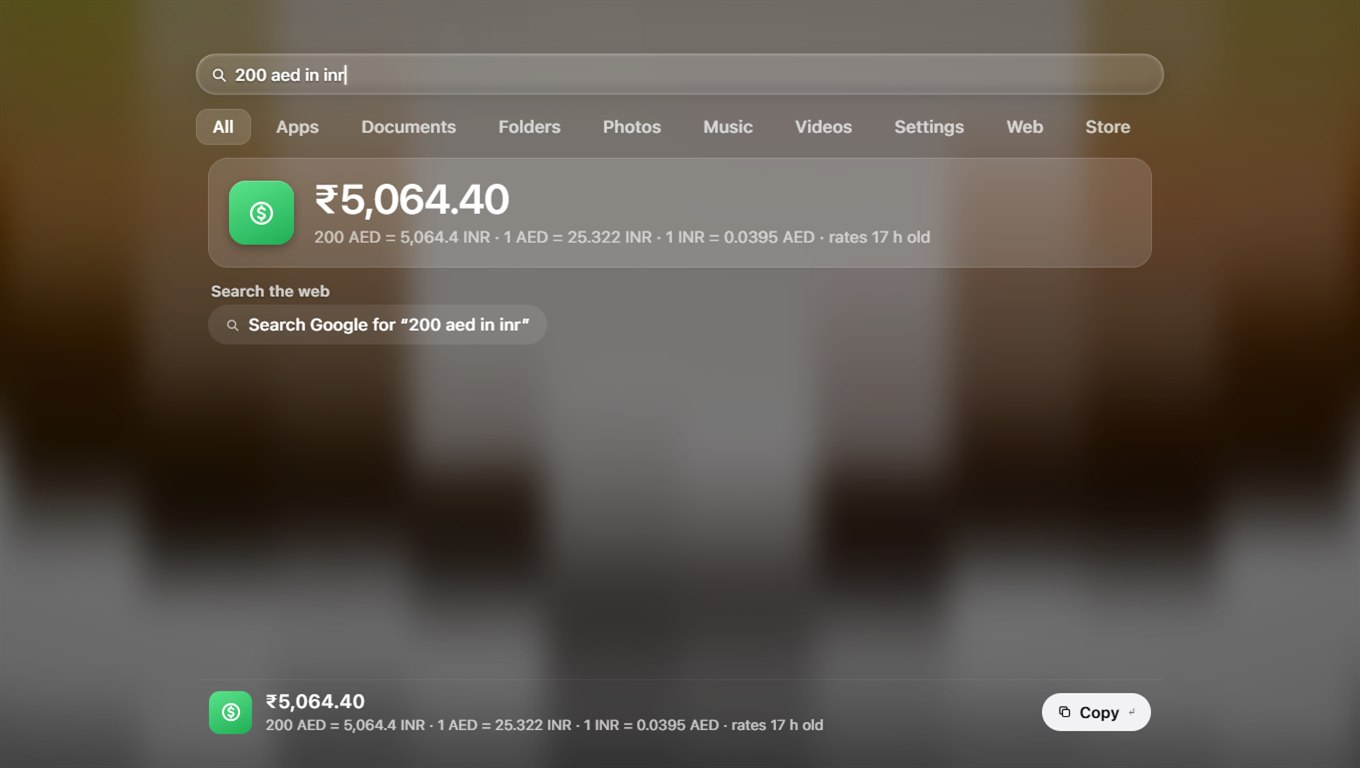
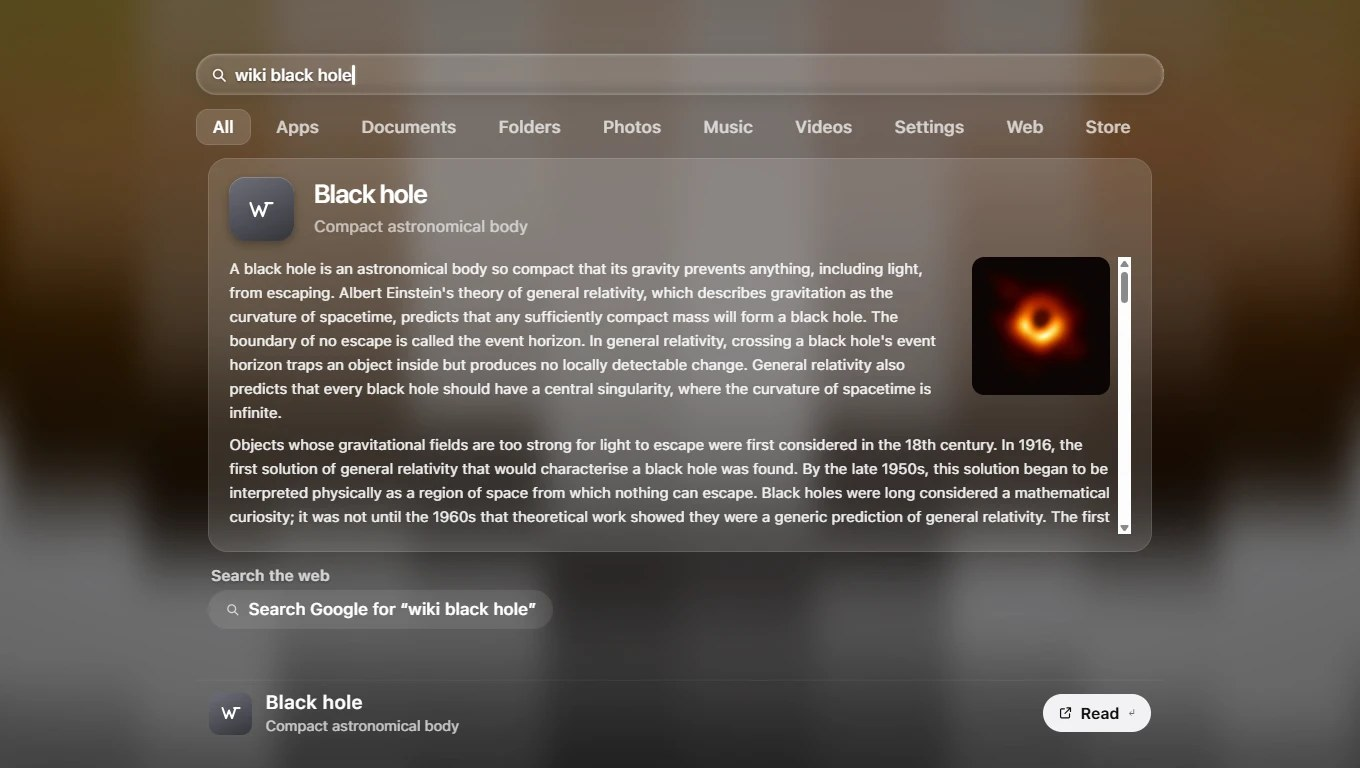
README: new song, video and search screenshots; Launchpad self-heals
- Screenshots: Blinding Lights with its lyrics, the Die With A Smile video,
  and a Wikipedia answer.
- Launchpad's connection to the helper (swipes, the Windows key) is dropped
  and reopened when it hangs, and Launchpad's open state is re-sent every
  2 s, so a stuck connection recovers without restarting the helper.

diff --git a/wallpaper/launchpad.js b/wallpaper/launchpad.js
@@ -1227,14 +1227,20 @@
     if (!IN_LIVELY || window.OVERLAY) return;                        // the overlay gets its keys directly (it's a normal focused window)
     let since = -1;
     for (;;) {
+      // the helper answers within 20 s; a request that hangs longer is dropped and made again (swipes and the Windows key
+      // travel over this one connection: once it stuck, nothing reached Launchpad until the helper was restarted)
+      const ac = new AbortController(), killer = setTimeout(() => ac.abort(), 30000);
       try {
-        const j = await (await fetch(`${evBase}/wait?${q2s({ since })}`, { cache: 'no-store' })).json();
+        const j = await (await fetch(`${evBase}/wait?${q2s({ since })}`, { cache: 'no-store', signal: ac.signal })).json();
+        clearTimeout(killer);
         helperLive = true;
         if (since >= 0) (j.evs || []).forEach(ev => { try { onHelperEvent(ev); } catch (_) {} });
         since = j.seq ?? since;
-      } catch (_) { helperLive = false; since = -1; await new Promise(r => setTimeout(r, 2000)); }
+      } catch (e) { clearTimeout(killer); if (e && e.name === 'AbortError') { since = -1; continue; } helperLive = false; since = -1; await new Promise(r => setTimeout(r, 2000)); }
     }
   })();
+  // and the helper is reminded every 2 s whether Launchpad is really open, so the two can never disagree for long
+  if (IN_LIVELY && !window.OVERLAY) setInterval(() => fastState(open ? 1 : 0), 2000);
 
   // the power menu closes on any press that isn't on it or its button (before anything else gets the press)
   document.addEventListener('pointerdown', e => { if (!e.target.closest('#lpPwr,#lpPwrMenu')) $('lpPwrZone').classList.remove('menu'); }, true);

diff --git a/README.md b/README.md
@@ -11,7 +11,7 @@ Runs on [Lively Wallpaper](https://www.rocksdanister.com/lively/) (installed for
 | ![Now Playing: a song](docs/song.jpg) | ![Now Playing: a music video](docs/video.jpg) |
 | **Now Playing** — the cover, time-synced lyrics, stripes lit in the cover's colour | **Music videos** — the video itself, in step with the music |
 | ![Search answers](docs/search.jpg) | |
-| **Search** — answers right in Launchpad (`200 aed in inr`) | |
+| **Search** — answers right in Launchpad (`wiki black hole`) | |
 
 ## Install
 
